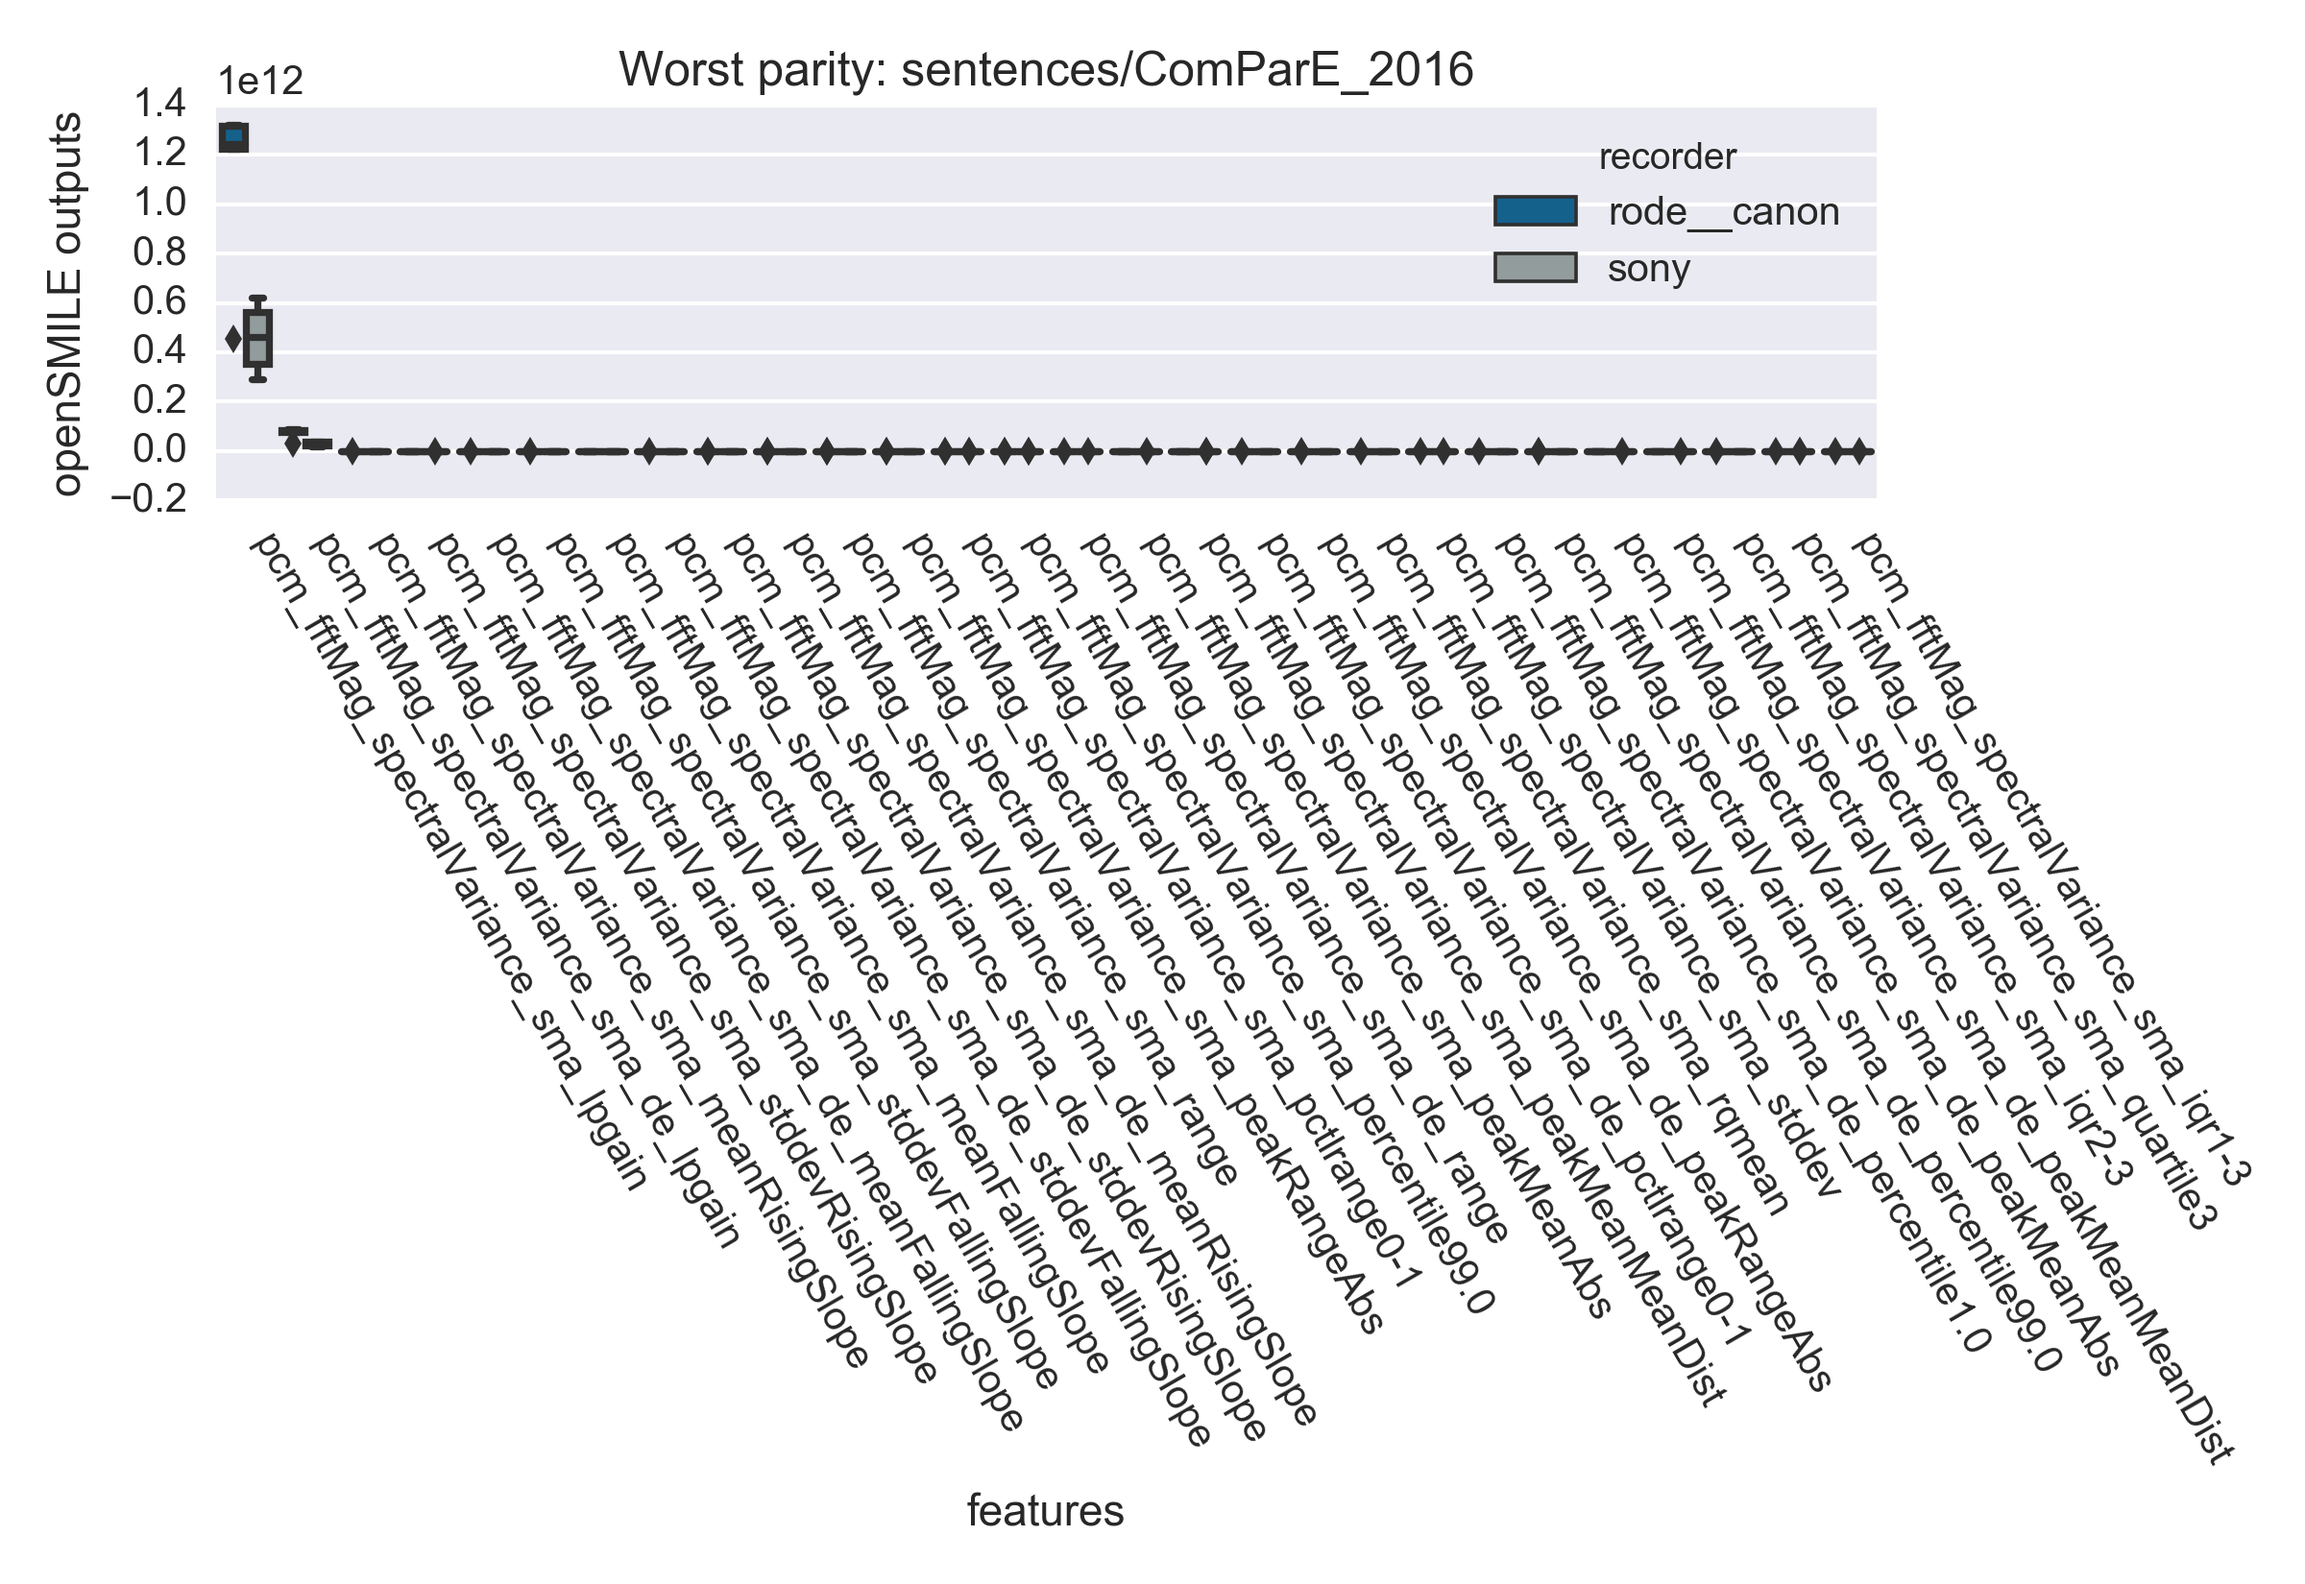
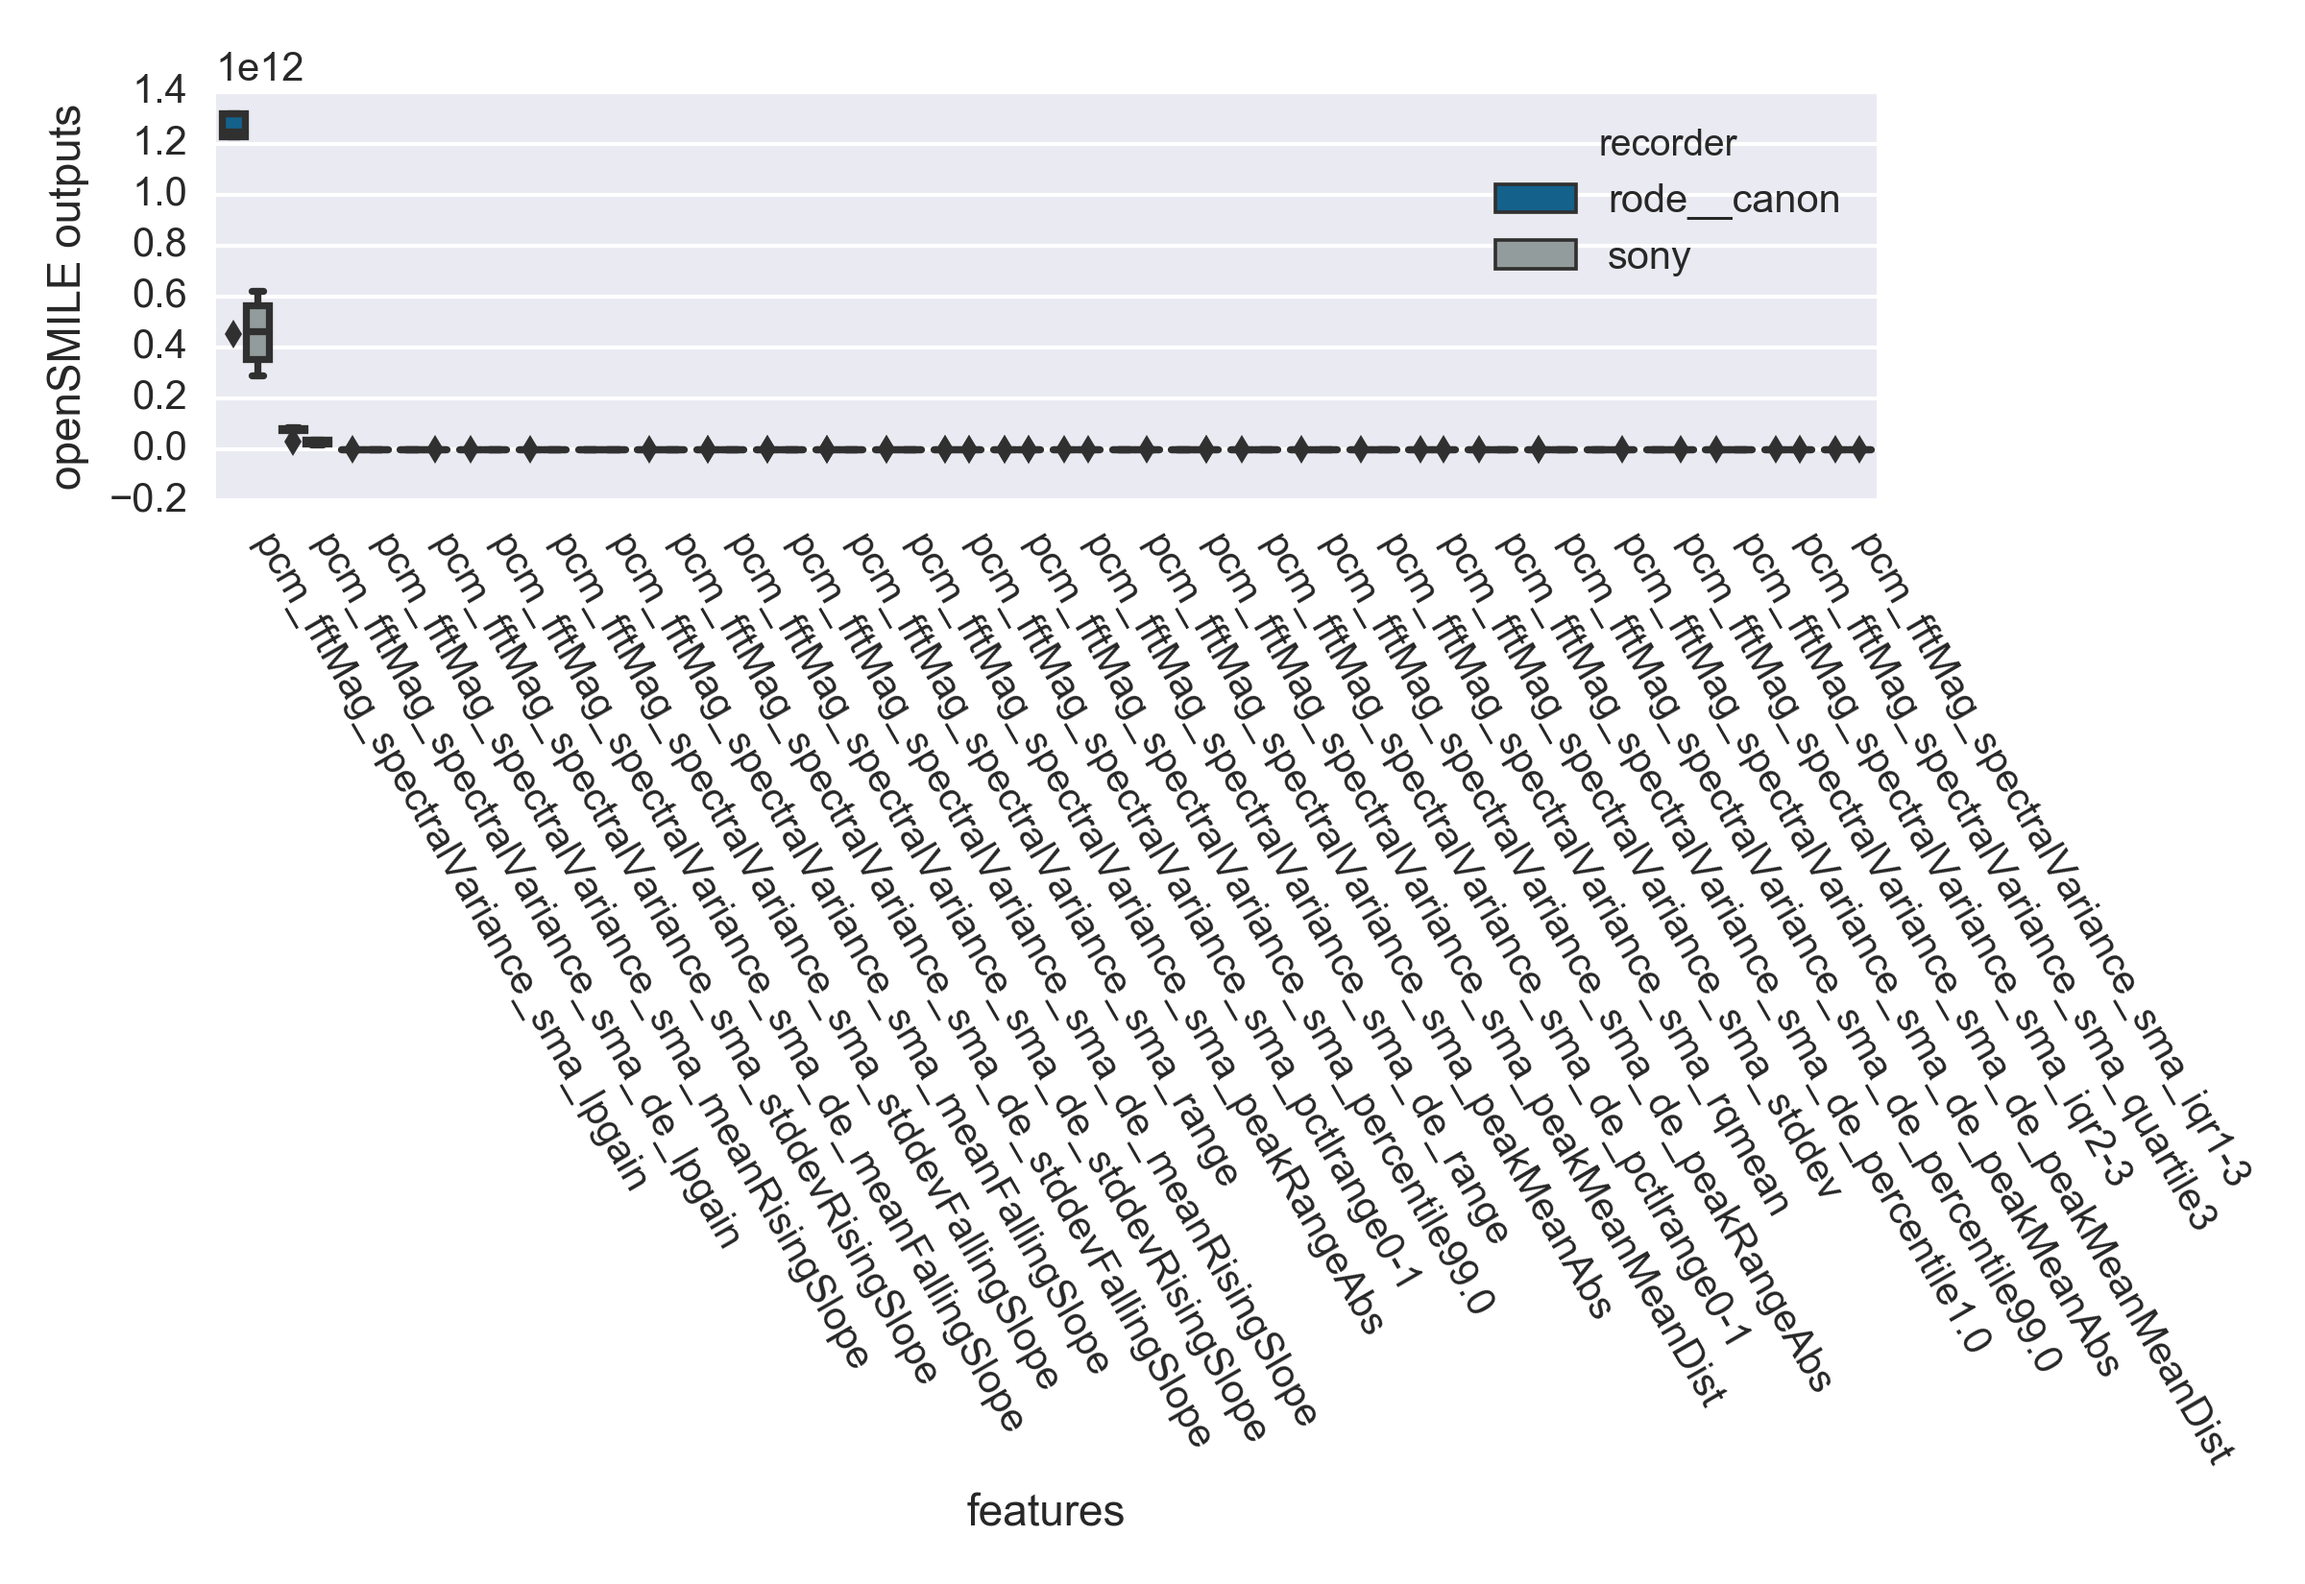
continue data analysis

diff --git a/test_equipment/recorder_box_plots.py b/test_equipment/recorder_box_plots.py
@@ -11,8 +11,8 @@ Author:
 
 © 2017, Child Mind Institute, Apache v2.0 License
 """
-import openSMILE_dir_to_csv as odtc, os, pandas as pd, matplotlib.pyplot as \
-       plt, seaborn as sns, subprocess
+import numpy as np, openSMILE_dir_to_csv as odtc, os, pandas as pd, \
+       matplotlib.pyplot as plt, seaborn as sns, subprocess
 
 def plot(dataframe, directory):
     cmi_colors = ["#0067a0", "#919d9d", "#00c1d5", "#b5bd00", "#a31c3f",
@@ -41,15 +41,28 @@ def plot(dataframe, directory):
     plt.dpi=200
     g = sns.boxplot(x="features", y="openSMILE outputs", hue="recorder", data=
                     df_long.head(n=280))
+    """
     plt.title(''.join(["Worst parity: ", os.path.basename(os.path.dirname(
               directory)), "/", os.path.basename(directory)]))
+    """
     plt.tight_layout()
     fig = g.get_figure()
     fig.savefig(os.path.join(directory, "collected/boxplot.png"), dpi=300)
     plt.close()
+    h = sns.boxplot(x="openSMILE outputs", y="features", hue="recorder", data=
+                    df_long)
+    plt.yticks(np.arange(len(df_long['features'].unique())), df_long['features'
+               ].unique())
+    # plt.tight_layout()
+    fig_h = h.get_figure()
+    fig_h.savefig(os.path.join(directory, "collected/horizontal_boxplot.png"), 
+                  dpi=300)
+    plt.close()
+    
+    
 
 def main():
-    tippy_top = "/Volumes/Jon.Clucas/SM_openSMILE/test_equipment/recorder_test"
+    tippy_top = "/Users/jon.clucas/SM_openSMILE/test_equipment/recorder_test"
     top_dirs = [os.path.join(tippy_top, "sentences/ComParE_2016"),
                 os.path.join(tippy_top, "sentences/emobase"),
                 os.path.join(tippy_top, "word_list/ComParE_2016"),
